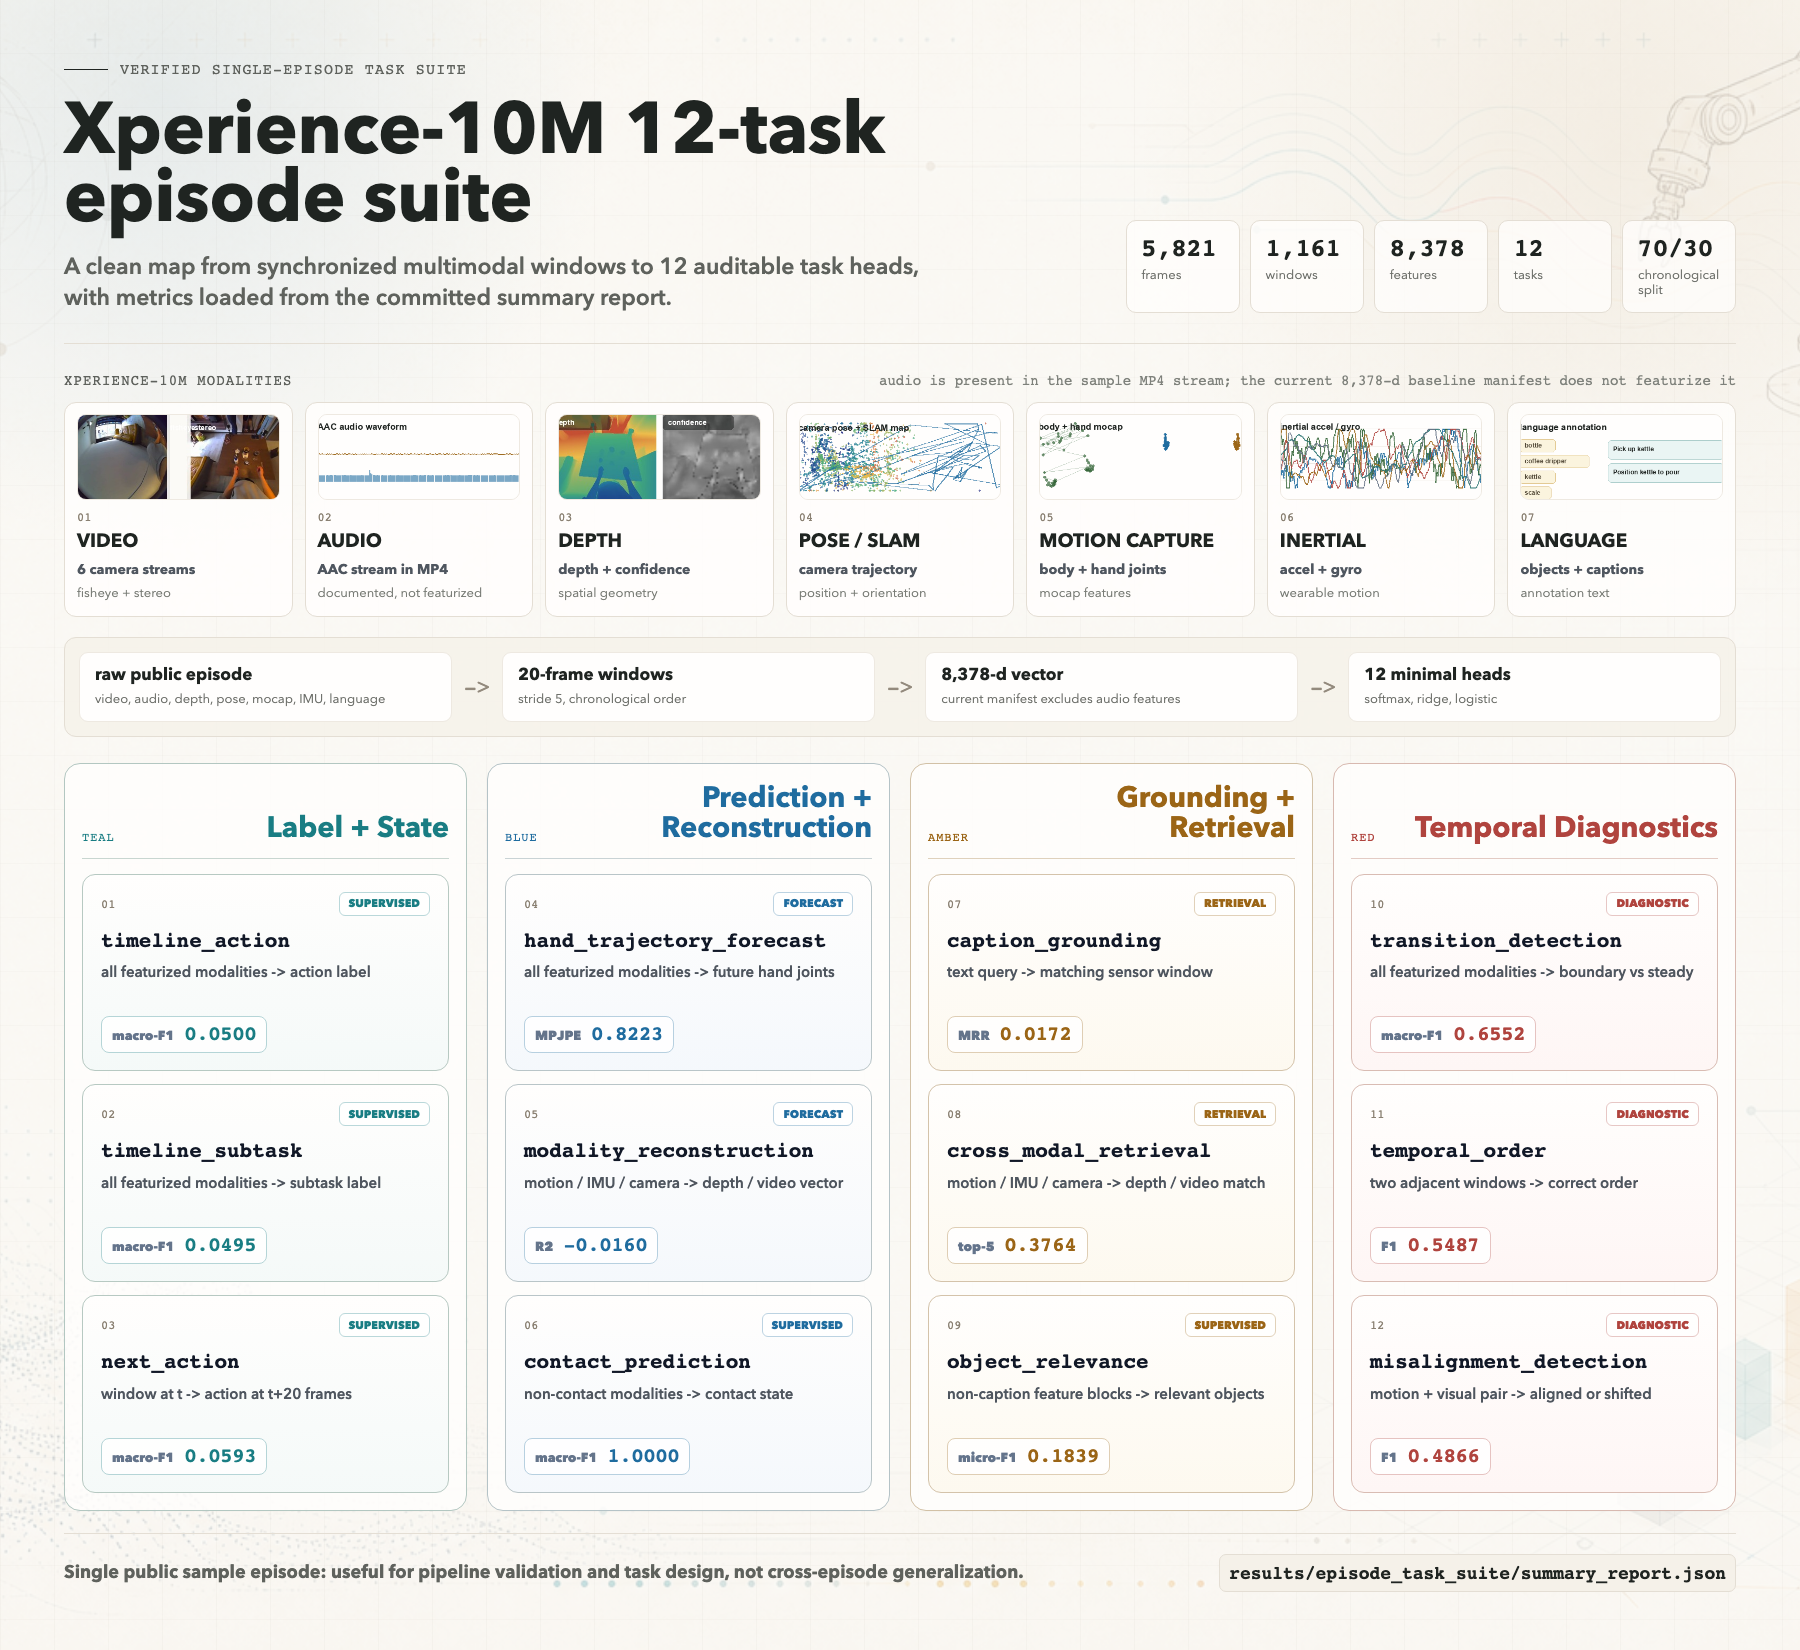
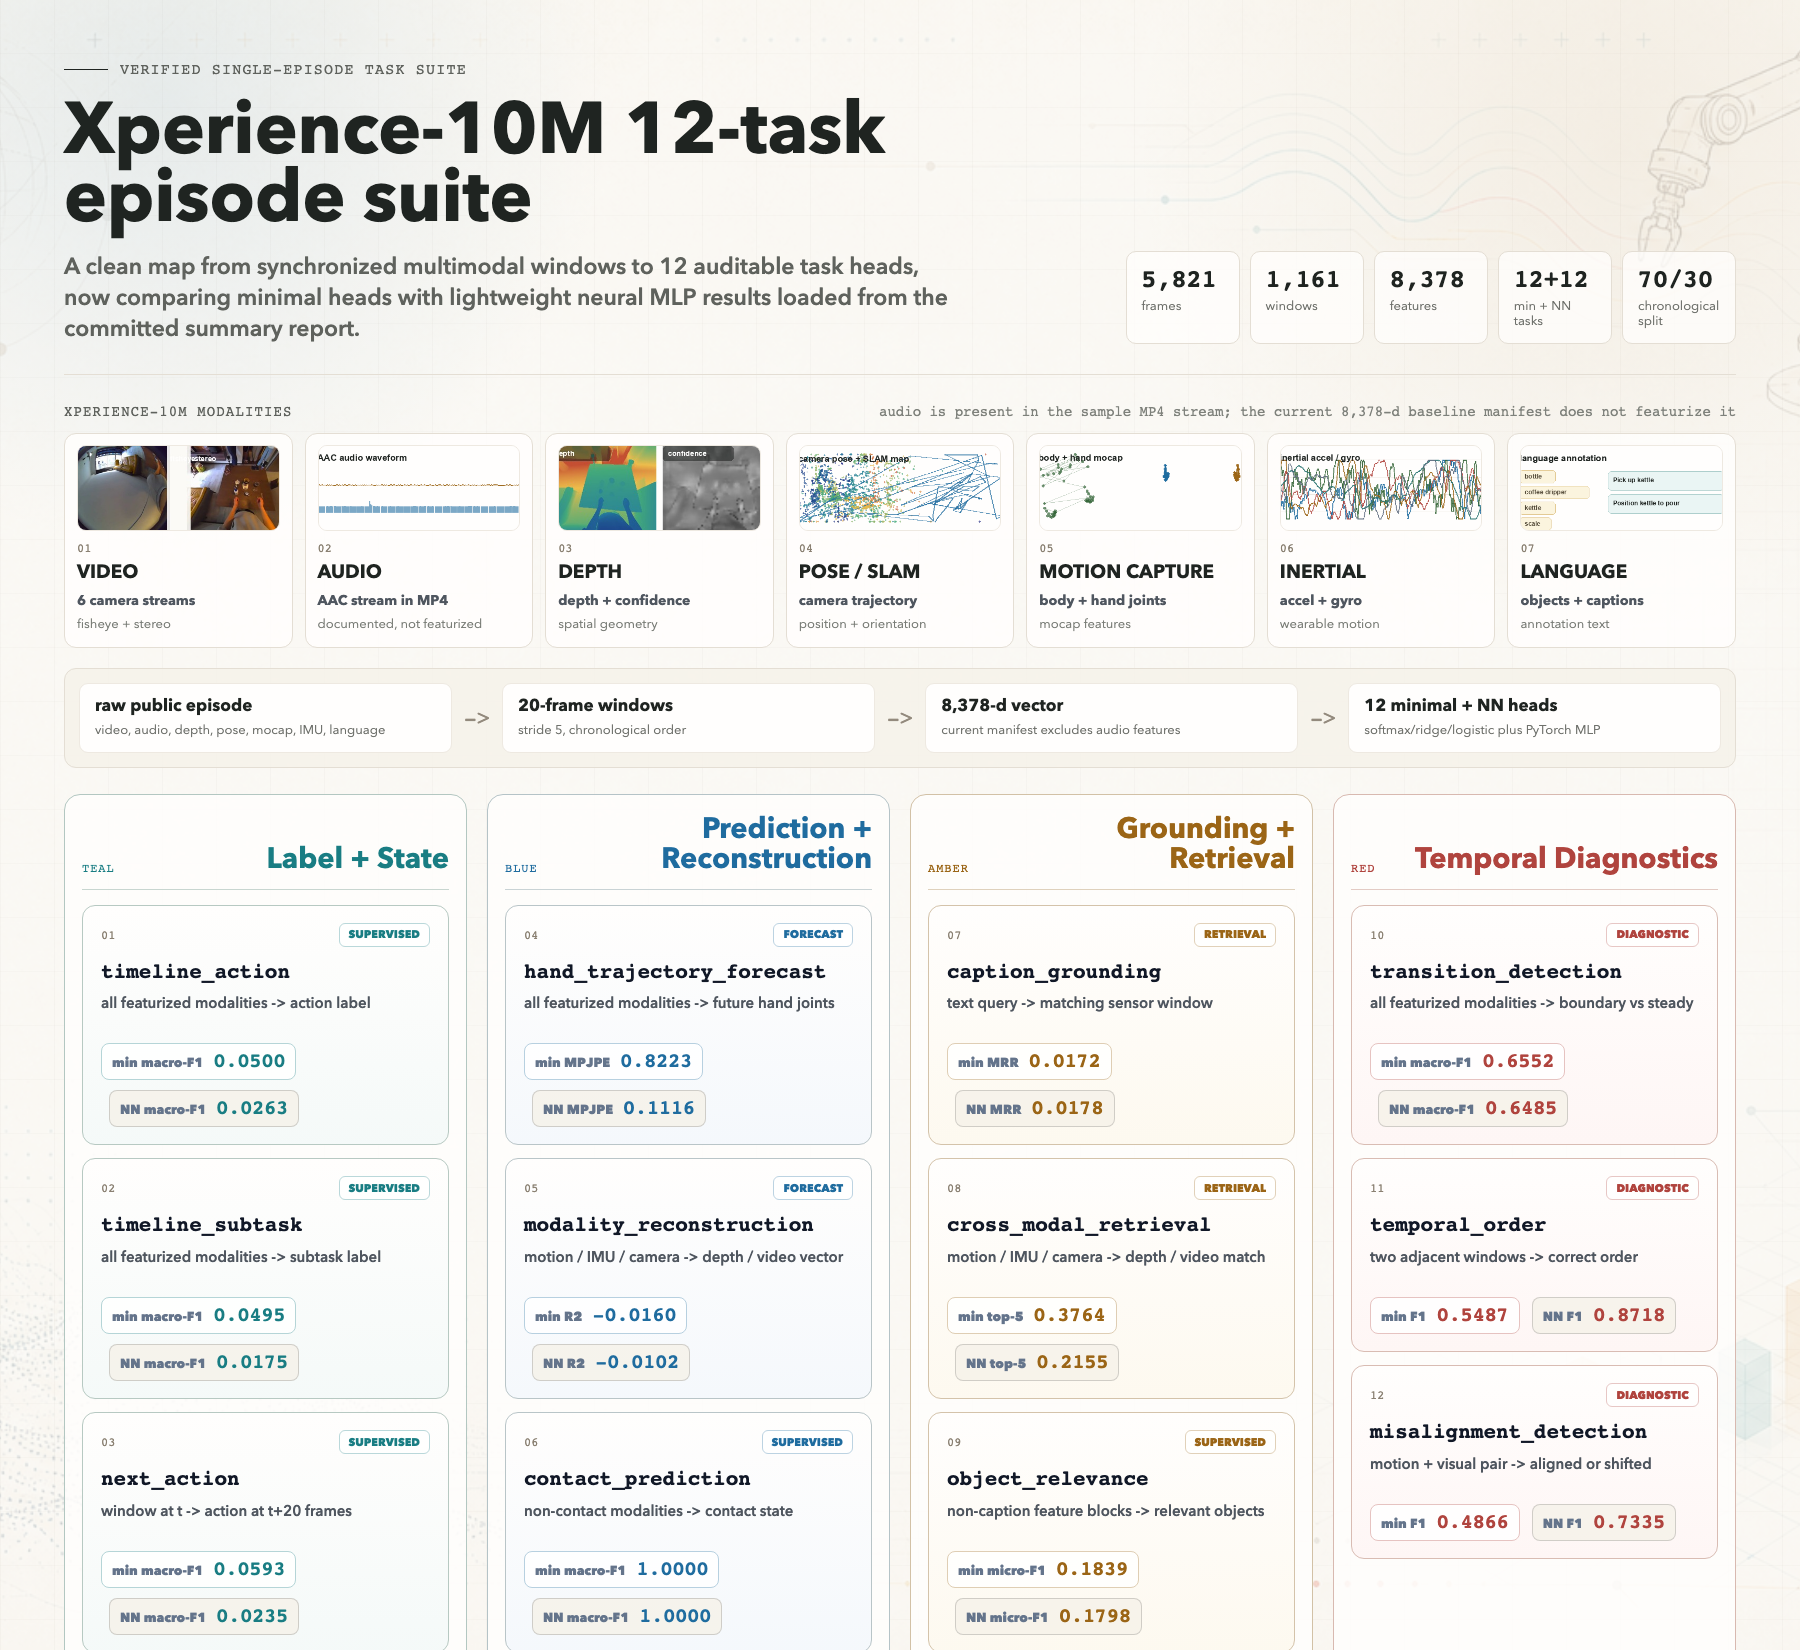
Update figures with neural results

diff --git a/docs/index.html b/docs/index.html
@@ -7,7 +7,7 @@
   <meta name="description" content="A transparent multimodal task suite for one public Xperience-10M sample episode released by Ropedia, with minimal and neural MLP baselines.">
   <meta property="og:title" content="Xperience-10M Episode Task Suite">
   <meta property="og:description" content="One public embodied-AI episode, converted into reproducible multimodal tasks, minimal baselines, neural MLP baselines, metrics, and diagrams.">
-  <meta property="og:image" content="assets/task_suite_infographic.png?v=xperience10m">
+  <meta property="og:image" content="assets/task_suite_infographic.png?v=xperience10m-nn">
   <style>
     :root {
       color-scheme: light;
@@ -551,7 +551,7 @@
           <h2>Xperience-10M 12-task suite, first.</h2>
           <p>The top-level map shows the Xperience-10M sample modalities and the verified 12-task results. Audio is present in the sample MP4 stream, but the current 8,378-d baseline manifest does not featurize it.</p>
         </div>
-        <img class="task-suite-image" src="assets/task_suite_infographic.png?v=xperience10m" alt="ChatGPT-image-backed infographic showing all 12 Xperience-10M episode tasks">
+        <img class="task-suite-image" src="assets/task_suite_infographic.png?v=xperience10m-nn" alt="ChatGPT-image-backed infographic showing all 12 Xperience-10M episode tasks">
       </div>
     </section>
 
@@ -561,7 +561,7 @@
           <h2>From raw episode to checked artifacts.</h2>
           <p>Every script works from one data contract: aligned multimodal windows, explicit labels, cached feature extraction, and a manifest that makes omitted modalities visible.</p>
         </div>
-        <img class="pipeline-image" src="assets/pipeline_diagram.png?v=xperience10m" alt="Verified Xperience-10M multimodal pipeline diagram">
+        <img class="pipeline-image" src="assets/pipeline_diagram.png?v=xperience10m-nn" alt="Verified Xperience-10M multimodal pipeline diagram">
         <div class="callout-row">
           <div class="callout">
             <h3>What this project proves</h3>
@@ -616,7 +616,7 @@
           <h2>The 12 tasks share four head families.</h2>
           <p>The diagram separates the shared episode-window feature pipeline from the task-specific heads, and notes that audio remains dataset context rather than a current baseline feature block.</p>
         </div>
-        <img class="architecture-image" src="assets/task_architectures.png?v=xperience10m" alt="Verified minimal architecture diagram for all 12 Xperience-10M episode tasks">
+        <img class="architecture-image" src="assets/task_architectures.png?v=xperience10m-nn" alt="Verified minimal and neural architecture diagram for all 12 Xperience-10M episode tasks">
       </div>
     </section>
 

diff --git a/scripts/generate_visualizations.py b/scripts/generate_visualizations.py
@@ -185,6 +185,14 @@ def metric_text(task_name: str, metrics: dict) -> str:
     return "metric in summary_report.json"
 
 
+def metric_text_with_neural(task_name: str, metrics: dict, neural_tasks: dict) -> str:
+    text = metric_text(task_name, metrics)
+    neural_metrics = neural_tasks.get(task_name)
+    if not neural_metrics or "error" in neural_metrics:
+        return text
+    return f"min {text}; NN {metric_text(task_name, neural_metrics)}"
+
+
 def draw_text_block(parts: list[str], x: int, y: int, lines: list[str], size: int = 13, color: str = "#394255", weight: str = "500", max_chars: int = 42, line_h: int = 18) -> int:
     cursor = y
     for line in lines:
@@ -198,6 +206,7 @@ def draw_text_block(parts: list[str], x: int, y: int, lines: list[str], size: in
 def task_architecture_rows(summary: dict) -> list[dict]:
     suite = summary["suite"]
     tasks = suite["tasks"]
+    neural_tasks = suite.get("neural_tasks", {})
     manifest = summary["feature_manifest"]
     all_dim = int(suite["feature_dim"])
     no_contact_text_dim = feature_dim(manifest, exclude=["body_contacts", "caption_objects_interaction_text"])
@@ -214,97 +223,97 @@ def task_architecture_rows(summary: dict) -> list[dict]:
             "task": "timeline_action",
             "family": "softmax",
             "input": f"X_all window, {all_dim:,}d",
-            "head": "z-score -> linear softmax, class-weighted CE + L2",
+            "head": "minimal linear softmax; optional NN MLP softmax",
             "output": f"current action class, {tasks['timeline_action']['num_classes']} classes",
-            "metric": metric_text("timeline_action", tasks["timeline_action"]),
+            "metric": metric_text_with_neural("timeline_action", tasks["timeline_action"], neural_tasks),
         },
         {
             "task": "timeline_subtask",
             "family": "softmax",
             "input": f"X_all window, {all_dim:,}d",
-            "head": "z-score -> linear softmax, class-weighted CE + L2",
+            "head": "minimal linear softmax; optional NN MLP softmax",
             "output": f"current subtask class, {tasks['timeline_subtask']['num_classes']} classes",
-            "metric": metric_text("timeline_subtask", tasks["timeline_subtask"]),
+            "metric": metric_text_with_neural("timeline_subtask", tasks["timeline_subtask"], neural_tasks),
         },
         {
             "task": "transition_detection",
             "family": "softmax",
             "input": f"X_all window, {all_dim:,}d",
-            "head": "z-score -> linear softmax, class-weighted CE + L2",
+            "head": "minimal linear softmax; optional NN MLP softmax",
             "output": "steady vs transition near action boundary",
-            "metric": f"{metric_text('transition_detection', tasks['transition_detection'])}; boundary-F1 {tasks['transition_detection']['boundary_f1']:.4f}",
+            "metric": f"{metric_text_with_neural('transition_detection', tasks['transition_detection'], neural_tasks)}; boundary-F1 {tasks['transition_detection']['boundary_f1']:.4f}",
         },
         {
             "task": "next_action",
             "family": "softmax",
             "input": f"X_all at time t, {all_dim:,}d",
-            "head": "z-score -> linear softmax, class-weighted CE + L2",
+            "head": "minimal linear softmax; optional NN MLP softmax",
             "output": f"action at t+{tasks['next_action'].get('future_frames', 20)} frames",
-            "metric": metric_text("next_action", tasks["next_action"]),
+            "metric": metric_text_with_neural("next_action", tasks["next_action"], neural_tasks),
         },
         {
             "task": "hand_trajectory_forecast",
             "family": "ridge",
             "input": f"X_all at time t, {all_dim:,}d",
-            "head": "z-score X/Y -> dual ridge regression, L2=10",
+            "head": "minimal dual ridge; optional NN MLP regression",
             "output": f"future hand joints, {tasks['hand_trajectory_forecast']['target_dim']}d",
-            "metric": metric_text("hand_trajectory_forecast", tasks["hand_trajectory_forecast"]),
+            "metric": metric_text_with_neural("hand_trajectory_forecast", tasks["hand_trajectory_forecast"], neural_tasks),
         },
         {
             "task": "contact_prediction",
             "family": "softmax",
             "input": f"X without contact/text leakage, {no_contact_text_dim:,}d",
-            "head": "z-score -> linear softmax on observed labels",
+            "head": "minimal linear softmax; optional NN MLP softmax",
             "output": "any body contact in window; degenerate one-class sample",
-            "metric": metric_text("contact_prediction", tasks["contact_prediction"]),
+            "metric": metric_text_with_neural("contact_prediction", tasks["contact_prediction"], neural_tasks),
         },
         {
             "task": "object_relevance",
             "family": "multilabel",
             "input": f"X without caption text, {no_text_dim:,}d",
-            "head": "z-score -> sigmoid multi-label logistic, weighted",
+            "head": "minimal sigmoid logistic; optional NN MLP multilabel",
             "output": f"multi-hot object set, {tasks['object_relevance']['num_objects']} objects",
-            "metric": metric_text("object_relevance", tasks["object_relevance"]),
+            "metric": metric_text_with_neural("object_relevance", tasks["object_relevance"], neural_tasks),
         },
         {
             "task": "caption_grounding",
             "family": "ridge+rank",
             "input": f"sensor {sensor_dim:,}d -> text space {text_dim:,}d",
-            "head": "ridge projection, then cosine ranking",
+            "head": "minimal ridge or NN MLP projection, then cosine rank",
             "output": "text query retrieves matching time window",
-            "metric": metric_text("caption_grounding", tasks["caption_grounding"]),
+            "metric": metric_text_with_neural("caption_grounding", tasks["caption_grounding"], neural_tasks),
         },
         {
             "task": "cross_modal_retrieval",
             "family": "ridge+rank",
             "input": f"motion/IMU/camera {motion_dim:,}d -> visual {visual_dim:,}d",
-            "head": "ridge projection, then cosine ranking",
+            "head": "minimal ridge or NN MLP projection, then cosine rank",
             "output": "retrieve matching depth/video window",
-            "metric": metric_text("cross_modal_retrieval", tasks["cross_modal_retrieval"]),
+            "metric": metric_text_with_neural("cross_modal_retrieval", tasks["cross_modal_retrieval"], neural_tasks),
         },
         {
             "task": "modality_reconstruction",
             "family": "ridge",
             "input": f"motion/IMU/camera {motion_dim:,}d",
-            "head": "z-score X/Y -> dual ridge regression, L2=10",
+            "head": "minimal dual ridge; optional NN MLP regression",
             "output": f"depth/video feature vector, {visual_dim:,}d",
-            "metric": metric_text("modality_reconstruction", tasks["modality_reconstruction"]),
+            "metric": metric_text_with_neural("modality_reconstruction", tasks["modality_reconstruction"], neural_tasks),
         },
         {
             "task": "temporal_order",
             "family": "softmax",
             "input": f"concat[x_t, x_t+1, diff], {pair_dim:,}d",
-            "head": "z-score -> binary linear softmax, CE + L2",
+            "head": "minimal binary softmax; optional NN MLP softmax",
             "output": "correct vs reversed adjacent windows",
-            "metric": metric_text("temporal_order", tasks["temporal_order"]),
+            "metric": metric_text_with_neural("temporal_order", tasks["temporal_order"], neural_tasks),
         },
         {
             "task": "misalignment_detection",
             "family": "softmax",
             "input": f"concat[motion_t, visual_t/visual_t+8], {align_dim:,}d",
-            "head": "z-score -> binary linear softmax, CE + L2",
+            "head": "minimal binary softmax; optional NN MLP softmax",
             "output": "aligned vs shifted by 8 windows",
-            "metric": metric_text("misalignment_detection", tasks["misalignment_detection"]),
+            "metric": metric_text_with_neural("misalignment_detection", tasks["misalignment_detection"], neural_tasks),
         },
     ]
 

diff --git a/scripts/render_overview_figures.py b/scripts/render_overview_figures.py
@@ -94,6 +94,7 @@ def arrow() -> str:
 def build_pipeline_html(summary: dict, base_path: Path) -> str:
     suite = summary["suite"]
     task_count = len(suite["tasks"])
+    neural_count = len(suite.get("neural_tasks", {}))
     stage_rows = [
         [
             stage_card(
@@ -132,21 +133,21 @@ def build_pipeline_html(summary: dict, base_path: Path) -> str:
             stage_card(
                 "05",
                 "Baseline models",
-                ["motion-only classifiers", "current all-feature classifiers", "stored weights + predictions"],
+                ["motion-only classifiers", "current all-feature classifiers", "neural MLP task heads"],
                 COLORS["blue"],
             ),
             arrow(),
             stage_card(
                 "06",
                 "Episode task suite",
-                [f"{task_count} task contracts", "forecast, retrieval, alignment", "chronological evaluation"],
+                [f"{task_count} minimal + {neural_count} neural results", "forecast, retrieval, alignment", "chronological evaluation"],
                 COLORS["teal"],
             ),
             arrow(),
             stage_card(
                 "07",
                 "Published artifacts",
-                ["metrics.json / csv / npz", "GitHub Pages dashboard", "HF Space + dataset + model card"],
+                ["metrics.json / csv / npz / pt", "GitHub Pages dashboard", "NN comparison charts"],
                 COLORS["green"],
             ),
         ],
@@ -156,6 +157,7 @@ def build_pipeline_html(summary: dict, base_path: Path) -> str:
         "Audit check: rerunning scripts to /private/tmp reproduced the committed metrics exactly.",
         "Modality check: sample covers video, AAC audio, depth, pose/SLAM, mocap, IMU, and language annotation.",
         "Feature check: current baseline manifest has video/depth/pose/mocap/IMU/language blocks, but no audio feature block.",
+        "Neural check: lightweight PyTorch MLP heads are reported beside the minimal task heads under neural_mlp/.",
         "Scope check: this validates one public sample episode, not cross-episode generalization.",
     ]
     checks_html = "".join(f"<li>{esc(line)}</li>" for line in checks)
@@ -357,13 +359,13 @@ def build_pipeline_html(summary: dict, base_path: Path) -> str:
         <div>
           <div class="kicker">verified single-episode pipeline</div>
           <h1>From Xperience-10M episode to reproducible artifacts</h1>
-          <p class="subtitle">The figure follows the actual code path and separates the full Xperience-10M sample modalities from the current baseline feature manifest.</p>
+          <p class="subtitle">The figure follows the actual code path and now includes both minimal task heads and lightweight neural MLP results over the same feature manifest.</p>
         </div>
         <div class="metrics">
           <div class="metric"><strong>{suite['num_frames']:,}</strong><span>frames</span></div>
           <div class="metric"><strong>{suite['num_windows']:,}</strong><span>windows</span></div>
           <div class="metric"><strong>{suite['feature_dim']:,}</strong><span>features</span></div>
-          <div class="metric"><strong>{task_count}</strong><span>tasks</span></div>
+          <div class="metric"><strong>{task_count}+{neural_count}</strong><span>min + NN tasks</span></div>
         </div>
       </header>
       {rows_html}
@@ -404,6 +406,7 @@ def build_task_card(row: dict, color: str) -> str:
 
 def build_architecture_html(summary: dict, base_path: Path) -> str:
     suite = summary["suite"]
+    neural_count = len(suite.get("neural_tasks", {}))
     rows_by_task = {row["task"]: row for row in task_architecture_rows(summary)}
     group_html = []
     for title, color, task_names in TASK_GROUPS:
@@ -421,10 +424,10 @@ def build_architecture_html(summary: dict, base_path: Path) -> str:
         )
 
     family_cards = [
-        ("Linear softmax", "Class-weighted CE + L2 for action, subtask, next-action, transition, contact, order, and alignment classifiers.", COLORS["blue"]),
-        ("Ridge regression", "Closed-form dual ridge for hand trajectory forecasting and modality reconstruction.", COLORS["green"]),
-        ("Ridge + cosine rank", "Project sensor features into text or visual space, then rank candidate windows by cosine similarity.", COLORS["teal"]),
-        ("Multi-label logistic", "One-vs-rest sigmoid heads over the object vocabulary with top-1 fallback.", COLORS["orange"]),
+        ("Linear softmax", "Minimal classifier for action, subtask, transition, contact, order, and alignment tasks.", COLORS["blue"]),
+        ("Ridge regression", "Minimal closed-form projection for forecasting, reconstruction, and retrieval spaces.", COLORS["green"]),
+        ("Multi-label logistic", "Minimal one-vs-rest sigmoid heads over the object vocabulary with top-1 fallback.", COLORS["orange"]),
+        ("Neural MLP", "Optional PyTorch nonlinear classifier/regressor over the same features, splits, and metrics.", COLORS["red"]),
     ]
     families = "".join(
         f"""
@@ -693,17 +696,17 @@ def build_architecture_html(summary: dict, base_path: Path) -> str:
     <div class="content">
       <header>
         <div>
-          <div class="kicker">minimal verified model architectures</div>
-          <h1>12 Xperience-10M episode tasks, four reusable heads</h1>
-          <p class="subtitle">Each task uses the same aligned episode-window contract, then swaps only the minimal output head needed for labels, forecasting, grounding, reconstruction, or temporal diagnostics.</p>
+          <div class="kicker">minimal + neural verified model architectures</div>
+          <h1>12 Xperience-10M episode tasks, minimal and NN heads</h1>
+          <p class="subtitle">Each task uses the same aligned episode-window contract. The figure now shows minimal heads beside the optional neural MLP metrics for labels, forecasting, grounding, reconstruction, and temporal diagnostics.</p>
         </div>
-        <div class="summary-pill"><strong>{len(suite['tasks'])}</strong><span>end-to-end tasks</span></div>
+        <div class="summary-pill"><strong>{len(suite['tasks'])}+{neural_count}</strong><span>min + NN tasks</span></div>
       </header>
       <section class="shared">
         <article><h2>Shared windows</h2><p>{suite['num_frames']:,} frames to {suite['num_windows']:,} windows over video, depth, pose, mocap, inertial, and language features.</p></article>
         <article><h2>Feature vector</h2><p>X_all is {suite['feature_dim']:,} dimensions with 17 named blocks; sample audio is documented but not featurized here.</p></article>
-        <article><h2>Reusable heads</h2><p>Softmax, ridge, ridge ranking, and multi-label logistic heads cover the whole suite.</p></article>
-        <article><h2>Artifacts</h2><p>Metrics, predictions, models, manifests, and the source summary report are committed.</p></article>
+        <article><h2>Reusable heads</h2><p>Minimal softmax/ridge/logistic heads plus optional PyTorch MLP heads cover the whole suite.</p></article>
+        <article><h2>Artifacts</h2><p>Metrics, predictions, model weights, neural checkpoints, manifests, and the source summary report are committed.</p></article>
       </section>
       <section class="families">{families}</section>
       <section class="task-groups">{"".join(group_html)}</section>

diff --git a/scripts/render_task_suite_infographic.py b/scripts/render_task_suite_infographic.py
@@ -470,8 +470,17 @@ def short_io(task_name: str, metrics: dict) -> str:
     return custom.get(task_name, metrics.get("input", ""))
 
 
-def task_card(task_name: str, kind: str, metrics: dict, group: dict, index: int) -> str:
+def task_card(task_name: str, kind: str, metrics: dict, group: dict, index: int, neural_metrics: dict | None = None) -> str:
     label, value = metric_for(task_name, metrics)
+    neural_html = ""
+    if neural_metrics and "error" not in neural_metrics:
+        neural_label, neural_value = metric_for(task_name, neural_metrics)
+        neural_html = f"""
+        <div class="metric neural">
+          <span>NN {html.escape(neural_label)}</span>
+          <strong>{html.escape(neural_value)}</strong>
+        </div>
+        """
     io = short_io(task_name, metrics)
     return f"""
       <article class="task-card" style="--accent:{group['color']};--soft:{group['soft']};">
@@ -482,9 +491,10 @@ def task_card(task_name: str, kind: str, metrics: dict, group: dict, index: int)
         <h3>{html.escape(task_name)}</h3>
         <p>{html.escape(io)}</p>
         <div class="metric">
-          <span>{html.escape(label)}</span>
+          <span>min {html.escape(label)}</span>
           <strong>{html.escape(value)}</strong>
         </div>
+        {neural_html}
       </article>
     """
 
@@ -506,6 +516,7 @@ def modality_card(name: str, line_one: str, line_two: str, index: int, thumbnail
 
 def build_html(summary: dict, base_image: Path | None, sample_dir: Path | None) -> str:
     suite = summary["tasks"]
+    neural_suite = summary.get("neural_tasks", {})
     thumbnails = load_sample_thumbnails(sample_dir)
     base_layer = ""
     if base_image is not None and base_image.exists():
@@ -514,7 +525,7 @@ def build_html(summary: dict, base_image: Path | None, sample_dir: Path | None) 
         (f"{summary['num_frames']:,}", "frames"),
         (f"{summary['num_windows']:,}", "windows"),
         (f"{summary['feature_dim']:,}", "features"),
-        (f"{len(suite)}", "tasks"),
+        (f"{len(suite)}+{len(neural_suite)}", "min + NN tasks"),
         ("70/30", "chronological split"),
     ]
     stats_html = "".join(
@@ -531,7 +542,7 @@ def build_html(summary: dict, base_image: Path | None, sample_dir: Path | None) 
     for group in GROUPS:
         cards = []
         for task_name, kind in group["tasks"]:
-            cards.append(task_card(task_name, kind, suite[task_name], group, task_index))
+            cards.append(task_card(task_name, kind, suite[task_name], group, task_index, neural_suite.get(task_name)))
             task_index += 1
         families.append(
             f"""
@@ -852,12 +863,17 @@ def build_html(summary: dict, base_image: Path | None, sample_dir: Path | None) 
       display: inline-flex;
       align-items: baseline;
       gap: 10px;
-      margin-top: 14px;
+      margin-top: 10px;
       min-height: 32px;
       padding: 7px 10px;
       border-radius: 8px;
       border: 1px solid color-mix(in srgb, var(--accent) 32%, #ffffff);
       background: rgba(255,255,255,0.82);
+    }}
+    .metric.neural {{
+      margin-left: 8px;
+      border-color: rgba(31,36,33,0.18);
+      background: rgba(245,241,233,0.82);
     }}
     .metric span {{
       color: #64748b;
@@ -904,7 +920,7 @@ def build_html(summary: dict, base_image: Path | None, sample_dir: Path | None) 
       <div>
         <div class="kicker">verified single-episode task suite</div>
         <h1>Xperience-10M 12-task episode suite</h1>
-        <p class="subtitle">A clean map from synchronized multimodal windows to 12 auditable task heads, with metrics loaded from the committed summary report.</p>
+        <p class="subtitle">A clean map from synchronized multimodal windows to 12 auditable task heads, now comparing minimal heads with lightweight neural MLP results loaded from the committed summary report.</p>
       </div>
       <div class="stats">{stats_html}</div>
     </header>
@@ -922,7 +938,7 @@ def build_html(summary: dict, base_image: Path | None, sample_dir: Path | None) 
       <div class="arrow">-></div>
       <div class="step"><strong>8,378-d vector</strong><span>current manifest excludes audio features</span></div>
       <div class="arrow">-></div>
-      <div class="step"><strong>12 minimal heads</strong><span>softmax, ridge, logistic</span></div>
+      <div class="step"><strong>12 minimal + NN heads</strong><span>softmax/ridge/logistic plus PyTorch MLP</span></div>
     </section>
 
     <section class="families">{''.join(families)}</section>

diff --git a/README.md b/README.md
@@ -68,7 +68,7 @@ Hugging Face Space app:
 | Xperience-10M sample on Hugging Face | [huggingface.co/datasets/ropedia-ai/xperience-10m-sample](https://huggingface.co/datasets/ropedia-ai/xperience-10m-sample) |
 | Ropedia Hugging Face organization | [huggingface.co/ropedia-ai](https://huggingface.co/ropedia-ai) |
 
-![ChatGPT-image-backed Xperience-10M 12-task infographic](docs/assets/task_suite_infographic.png?v=xperience10m)
+![ChatGPT-image-backed Xperience-10M 12-task infographic](docs/assets/task_suite_infographic.png?v=xperience10m-nn)
 
 The infographic uses a ChatGPT-image-generated text-free research background and
 low-resolution modality thumbnails extracted from the public sample episode. The
@@ -78,9 +78,9 @@ with [`scripts/render_task_suite_infographic.py`](scripts/render_task_suite_info
 so the published PNG is a presentation graphic with verified labels and metrics,
 not a hallucinated metric sheet.
 
-![Verified Pipeline](docs/assets/pipeline_diagram.png?v=xperience10m)
+![Verified Pipeline](docs/assets/pipeline_diagram.png?v=xperience10m-nn)
 
-![Minimal 12-task model architectures](docs/assets/task_architectures.png?v=xperience10m)
+![Minimal and neural 12-task model architectures](docs/assets/task_architectures.png?v=xperience10m-nn)
 
 The pipeline and architecture figures use the same pattern: ChatGPT-image
 provides text-free visual backgrounds, while